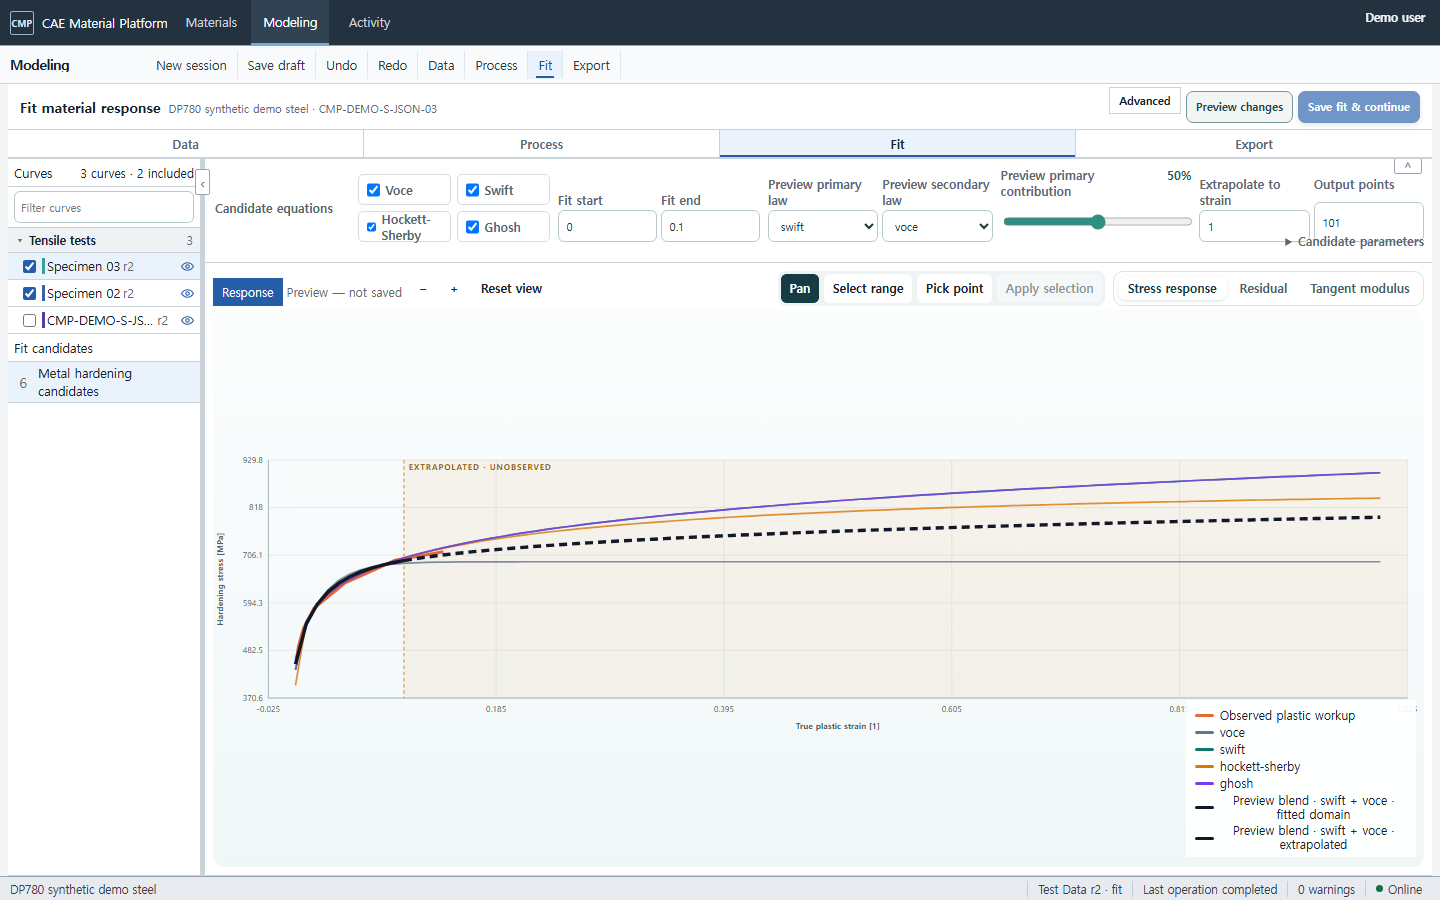
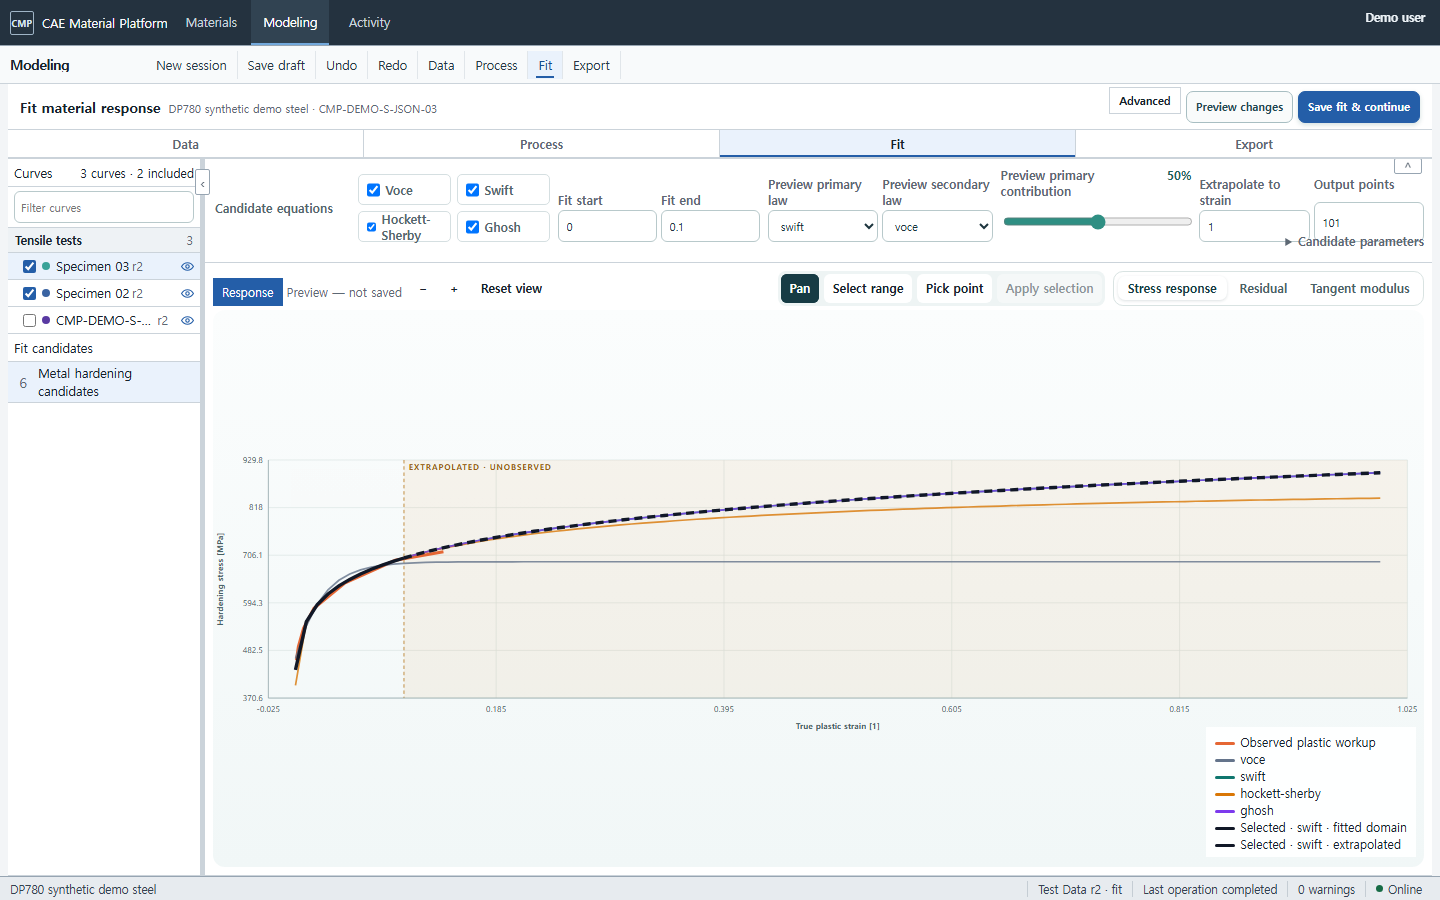
fix(DUI-09B): clean up Modeling curve rail

diff --git a/apps/web/src/common-processing-workbench.tsx b/apps/web/src/common-processing-workbench.tsx
@@ -2049,7 +2049,7 @@ export function CommonProcessingWorkbench({ config, onNavigate, onModelingTrackC
         <div className="section-heading"><div><p className="workspace-caption">{workflowTask}</p><h2>{stageTitle}</h2></div><div className="modeling-section-actions">{workflowTask === "process" || workflowTask === "fit" ? <details className="method-library"><summary>{workflowTask === "fit" ? "Add fit method" : "Add operation"} <span>{trackMethods.filter((method) => workflowTask === "fit" ? isFitMethod(method.method_id) : !isFitMethod(method.method_id)).length}</span></summary><div className="method-registry-strip" aria-label={workflowTask === "fit" ? "Available fitting methods" : "Available processing operations"}>{trackMethods.filter((method) => workflowTask === "fit" ? isFitMethod(method.method_id) : !isFitMethod(method.method_id)).map((method) => <button type="button" className="method-pill" key={method.method_id} onClick={() => addMethod(method)} title={method.description}><strong>+ {method.label}</strong><small>{method.version}</small></button>)}</div></details> : null}{workflowTask === "export" ? <button className="button secondary" type="button" onClick={() => openWorkflowTask("fit")}>Back to Fit</button> : null}</div></div>
         <ModelingWorkspaceLayout
           navigator={workflowTask === "data" || workflowTask === "process" || workflowTask === "fit" ? <>
-            <div className="modeling-dataset-list"><div className="rail-heading"><p>Curves</p><span>{trackDocuments.length} curves · {ensembleDocumentIds.length} included</span></div><label className="curve-filter"><span className="visually-hidden">Filter curves</span><input aria-label="Filter curves" placeholder="Filter curves" value={curveFilter} onChange={(event) => setCurveFilter(event.target.value)} /></label>{groupedTrackDocuments.map(([groupLabel, groupDocuments]) => <section className="curve-tree-group" aria-label={groupLabel} key={groupLabel}><div className="curve-group-row"><span aria-hidden="true">▾</span><strong>{groupLabel}</strong><small>{groupDocuments.length}</small></div>{groupDocuments.map((item) => { const label = curveDisplayName(item); const visible = visibleDocumentIds.includes(item.test_data_document_id); const curveIndex = trackDocuments.indexOf(item); return <article className={selectedDocumentId === item.test_data_document_id ? "active" : ""} key={item.test_data_document_id}><label className="curve-include-toggle" title="Include this revision in processing and fit"><input aria-label={`Include ${label} in processing and fit`} type="checkbox" checked={ensembleDocumentIds.includes(item.test_data_document_id)} onChange={() => toggleEnsembleDocument(item.test_data_document_id)}/></label><span className="dataset-curve-swatch" aria-hidden="true" style={{ "--curve-index": curveIndex } as React.CSSProperties}/><button type="button" className="curve-row-label" title={`${item.document_key} · ${item.specimen_id} · revision r${item.current_revision.revision_no}`} onClick={() => { setPlotView("pipeline"); void loadDocument(item.test_data_document_id); }}><span><strong>{label}</strong><small>r{item.current_revision.revision_no}</small></span></button><button type="button" className="curve-visibility-toggle" aria-pressed={visible} aria-label={`${visible ? "Hide" : "Show"} ${label} on plot`} title={`${visible ? "Hide" : "Show"} ${label} on plot`} onClick={() => setVisibleDocumentIds((current) => visible ? current.filter((id) => id !== item.test_data_document_id) : [...current, item.test_data_document_id])}><svg aria-hidden="true" viewBox="0 0 24 24" focusable="false"><path d="M2.5 12s3.5-6 9.5-6 9.5 6 9.5 6-3.5 6-9.5 6-9.5-6-9.5-6Z"/><circle cx="12" cy="12" r="2.75"/>{!visible ? <path d="M3 3l18 18"/> : null}</svg></button></article>; })}</section>)}{!filteredTrackDocuments.length ? <p className="muted">No matching curves.</p> : null}{workflowTask === "process" && ensembleDocumentIds.length >= 2 ? <details className="rail-statistics-action"><summary>Replicate analysis</summary><label>Alignment points<input aria-label="Replicate alignment point count" type="number" min="5" max="1001" value={ensemblePointCount} onChange={(event) => { setEnsemblePointCount(Number(event.target.value)); setEnsemblePreview(null); }}/></label><button className="button secondary" type="button" disabled={busy} onClick={() => void runEnsemblePreview()}>{busy ? "Calculating…" : "Preview mean & band"}</button><small>Compatible observed-domain intersection only · no extrapolation</small></details> : null}</div>
+            <div className="modeling-dataset-list"><div className="rail-heading"><p>Curves</p><span>{trackDocuments.length} curves · {ensembleDocumentIds.length} included</span></div><label className="curve-filter"><span className="visually-hidden">Filter curves</span><input aria-label="Filter curves" placeholder="Filter curves" value={curveFilter} onChange={(event) => setCurveFilter(event.target.value)} /></label>{groupedTrackDocuments.map(([groupLabel, groupDocuments]) => <section className="curve-tree-group" aria-label={groupLabel} key={groupLabel}><div className="curve-group-row"><strong>{groupLabel}</strong><small>{groupDocuments.length}</small></div>{groupDocuments.map((item) => { const label = curveDisplayName(item); const visible = visibleDocumentIds.includes(item.test_data_document_id); const curveIndex = trackDocuments.indexOf(item); return <article className={selectedDocumentId === item.test_data_document_id ? "active" : ""} key={item.test_data_document_id}><label className="curve-include-toggle" title="Include this revision in processing and fit"><input aria-label={`Include ${label} in processing and fit`} type="checkbox" checked={ensembleDocumentIds.includes(item.test_data_document_id)} onChange={() => toggleEnsembleDocument(item.test_data_document_id)}/></label><span className="dataset-curve-swatch" aria-hidden="true" style={{ "--curve-index": curveIndex } as React.CSSProperties}/><button type="button" className="curve-row-label" title={`${item.document_key} · ${item.specimen_id} · revision r${item.current_revision.revision_no}`} onClick={() => { setPlotView("pipeline"); void loadDocument(item.test_data_document_id); }}><span><strong>{label}</strong><small>r{item.current_revision.revision_no}</small></span></button><button type="button" className="curve-visibility-toggle" aria-pressed={visible} aria-label={`${visible ? "Hide" : "Show"} ${label} on plot`} title={`${visible ? "Hide" : "Show"} ${label} on plot`} onClick={() => setVisibleDocumentIds((current) => visible ? current.filter((id) => id !== item.test_data_document_id) : [...current, item.test_data_document_id])}><svg aria-hidden="true" viewBox="0 0 24 24" focusable="false"><path d="M2.5 12s3.5-6 9.5-6 9.5 6 9.5 6-3.5 6-9.5 6-9.5-6-9.5-6Z"/><circle cx="12" cy="12" r="2.75"/>{!visible ? <path d="M3 3l18 18"/> : null}</svg></button></article>; })}</section>)}{!filteredTrackDocuments.length ? <p className="muted">No matching curves.</p> : null}{workflowTask === "process" && ensembleDocumentIds.length >= 2 ? <details className="rail-statistics-action"><summary>Replicate analysis</summary><label>Alignment points<input aria-label="Replicate alignment point count" type="number" min="5" max="1001" value={ensemblePointCount} onChange={(event) => { setEnsemblePointCount(Number(event.target.value)); setEnsemblePreview(null); }}/></label><button className="button secondary" type="button" disabled={busy} onClick={() => void runEnsemblePreview()}>{busy ? "Calculating…" : "Preview mean & band"}</button><small>Compatible observed-domain intersection only · no extrapolation</small></details> : null}</div>
             {workflowTask === "process" || workflowTask === "fit" ? <div className="configured-step-list"><p className="rail-title">{stageRail}</p>{visibleStepEntries.map(({ step, index }) => { const label = methods.find((method) => method.method_id === step.method_id)?.label ?? methodDisplayName(step.method_id); return <button type="button" title={`${label} · version ${step.method_version}`} className={selectedStepIndex === index ? "active" : ""} key={`${index}:${step.method_id}`} onClick={() => focusConfiguredStep(index)}><span>{index + 1}</span><span><strong>{label}</strong><small>{step.method_version}</small></span></button>; })}</div> : null}
           </> : null}
           plot={<article className="persistent-modeling-plot" id="modeling-fit">

diff --git a/apps/web/src/design/layout.css b/apps/web/src/design/layout.css
@@ -3206,7 +3206,7 @@
 .curve-tree-group > article {
   display: grid;
   align-items: center;
-  grid-template-columns: 25px 3px minmax(0, 1fr) 26px;
+  grid-template-columns: 25px 12px minmax(0, 1fr) 26px;
   min-width: 0;
   padding-left: 9px;
 }
@@ -3226,17 +3226,13 @@
 .curve-group-row {
   display: grid;
   align-items: center;
-  grid-template-columns: 14px minmax(0, 1fr) auto;
+  grid-template-columns: minmax(0, 1fr) auto;
   min-height: 25px;
   padding: 2px 7px;
   border-bottom: 1px solid var(--ux-border);
   background: var(--ux-surface-subtle);
   color: var(--ux-text);
   font-size: 11.5px;
-}
-
-.curve-group-row > span {
-  color: var(--ux-text-muted);
 }
 
 .curve-group-row > strong {
@@ -3278,9 +3274,9 @@
 .dataset-curve-swatch {
   display: block;
   background: hsl(calc(174deg + var(--curve-index, 0) * 42deg) 48% 43%);
-  width: 3px;
-  height: 16px;
-  border-radius: 0;
+  width: 8px;
+  height: 8px;
+  border-radius: 50%;
 }
 
 .curve-visibility-toggle {

diff --git a/apps/web/src/common-processing-workbench.test.tsx b/apps/web/src/common-processing-workbench.test.tsx
@@ -560,6 +560,11 @@ describe("Common Processing Workbench", () => {
     expect(screen.getByText("Curves")).toBeTruthy();
     expect(screen.getByText("2 curves · 2 included")).toBeTruthy();
     expect(screen.getByRole("region", { name: "Tensile tests" })).toBeTruthy();
+    expect(screen.queryByText("▾")).toBeNull();
+    expect(document.querySelector(".curve-group-row > span")).toBeNull();
+    const curveKey = document.querySelector(".dataset-curve-swatch");
+    expect(curveKey).toBeTruthy();
+    expect(curveKey?.className).toBe("dataset-curve-swatch");
     const curveRow = screen.getByTitle("DP600-TENSILE-01 · S-1 · revision r1");
     expect(curveRow.getAttribute("title")).toContain("DP600-TENSILE-01");
     const includeSpecimen = screen.getByRole("checkbox", { name: "Include Specimen 01 in processing and fit" });

diff --git a/docs/01-product/desktop-engineering-ui-spec.md b/docs/01-product/desktop-engineering-ui-spec.md
@@ -47,7 +47,7 @@ This authoritative annex retains the component-specific contract. Each compact r
 
 | ID / component or field | purpose | placement | visible_when | source | requires | invalidates | states | error_recovery |
 | --- | --- | --- | --- | --- | --- | --- | --- | --- |
-| `P-01` rail summary, test group and selected specimen row | State the available test scope and let the engineer focus one specimen without consuming graph width. | Left of the persistent graph; the compact summary and real method group precede indented 26 px specimen rows. Printed `└`/`ㄴ` glyphs and decorative branches are forbidden. | Data/Process with compatible Test Data; the same row grammar is used by `F-01` in Fit. It is absent from Validate, Review / Release and Export. | Compatible Test Data/Processing Output revisions, canonical `method`, specimen identity, session selected-document identity and revision metadata. Add a condition subgroup only when exact condition metadata is present; never invent temperature or rate. | Current compatible source context. | Selecting a row changes local selected-curve/plot context only; it never rewrites a revision. | empty, compatible, selected, stale, blocked. | Keep selection and graph context; name a missing/incompatible revision and return to Data/Process. |
+| `P-01` rail summary, test group and selected specimen row | State the available test scope and let the engineer focus one specimen without consuming graph width. | Left of the persistent graph; the compact summary and real method group precede indented 26 px specimen rows. A non-interactive group has no disclosure glyph; each row's 8 px circular color key is separated from dividers. Printed `└`/`ㄴ` glyphs and decorative branches are forbidden. | Data/Process with compatible Test Data; the same row grammar is used by `F-01` in Fit. It is absent from Validate, Review / Release and Export. | Compatible Test Data/Processing Output revisions, canonical `method`, specimen identity, session selected-document identity and revision metadata. Add a condition subgroup only when exact condition metadata is present; never invent temperature or rate. | Current compatible source context. | Selecting a row changes local selected-curve/plot context only; it never rewrites a revision. | empty, compatible, selected, stale, blocked. | Keep selection and graph context; name a missing/incompatible revision and return to Data/Process. |
 | `P-01a` Include in processing/fit checkbox | Make the engineer’s calculation-membership decision explicit and independent of viewing a line. | First control in each Data/Process tree row. | Data/Process when the existing session authorization allows selection changes; never rendered as editable downstream evidence. | Session selection IDs and the row’s exact Test Data/Processing Output revision. | Compatible exact source and a stage that owns selection. | Dispatches `CHANGE_SELECTION`; clears fit decision, validation, review, release and delivery current pointers while immutable history remains. | included, excluded, limit-reached, stale. | Preserve the row and current plot; retain selection on failed preview and explain the blocked prerequisite. |
 | `P-01b` Show on plot eye control | Toggle only the browser-local line visibility while retaining inclusion and exact curve identity. | Final compact control in each Data/Process row. | Data/Process with a plotted source; keyboard reachable with an accessible show/hide label. | Local view state keyed by the exact selected document ID. | A loaded compatible curve. | Does not invalidate selection, Recipe, output, candidate or any immutable revision. | visible, hidden, selected, unavailable. | Preserve all engineering state and restore the prior local visibility when the same exact session is resumed. |
 

diff --git a/docs/user-guide/12-configurable-catalog-and-modeling.md b/docs/user-guide/12-configurable-catalog-and-modeling.md
@@ -91,7 +91,9 @@ Explorer와 함께 확장한다.
 1. 전역 **Modeling**을 선택한다. 상단의 `Data | Process | Fit | Export`가 일반 작업 경로다.
 2. Data에서 Canonical JSON, CSV 또는 XLSX를 선택하고 **Test Data revision**과 channel/unit
    Mapping Profile을 확인한다. 원시 JSON은 Advanced mapping definition에서만 연다.
-3. Process에서 왼쪽 `Curves`와 `Process`의 일반 문자열 행을 선택한다. `Add method`로 ordered
+3. Process에서 왼쪽 `Curves`의 실제 test method 그룹과 specimen/revision 행, `Process`의 일반 문자열
+   행을 선택한다. 각 curve 행의 원형 색 키는 그래프 선을 구분할 뿐이며, inclusion checkbox와 눈 아이콘은
+   각각 계산 포함 여부와 브라우저 로컬 plot visibility를 독립적으로 바꾼다. `Add method`로 ordered
    step을 추가하고 current-step settings ribbon에서 crop/smoothing/resample/statistics option을
    바꾼다. 1366 px에서는 `Show settings`로 ribbon을 연다.
 4. **Preview changes**를 누른다. 오른쪽에 별도 inspector 열을 만들지 않고, 같은 큰 graph가 실제
